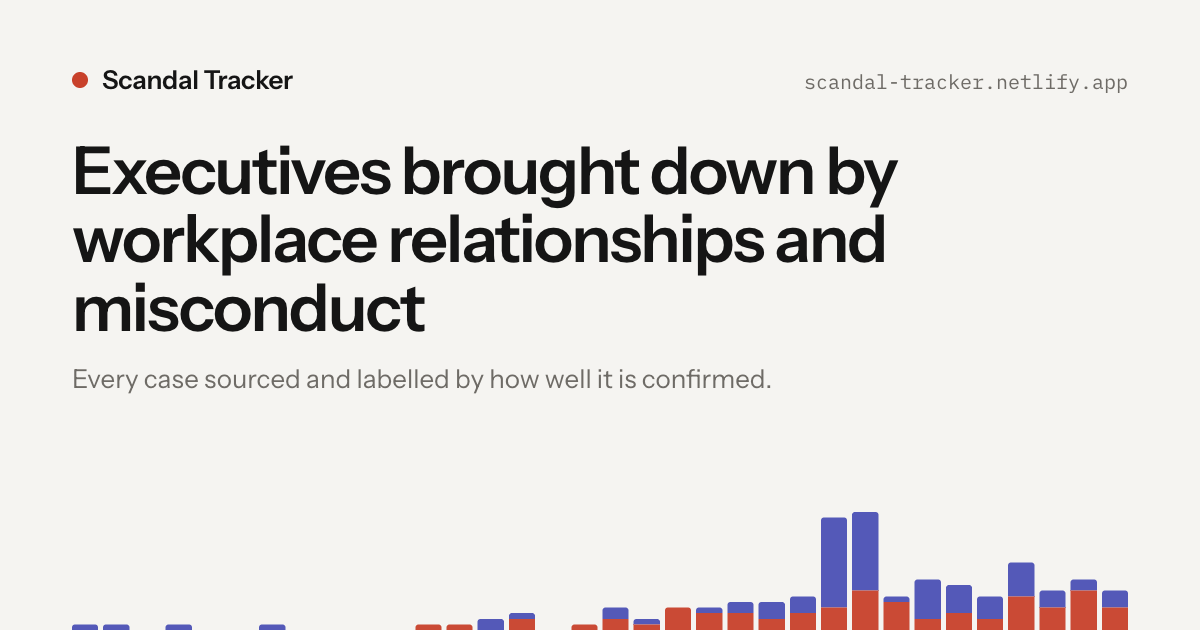
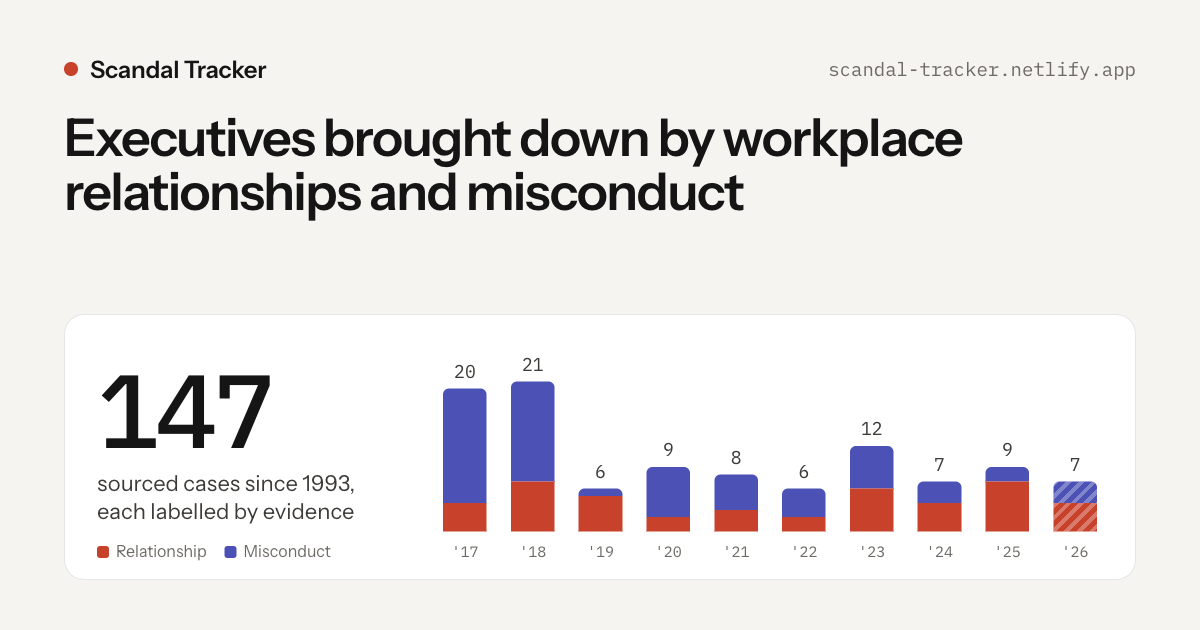
app: year chart defaults to last 10 years; stronger share image
- Home "Cases by year" shows the last 10 years with counts on every
  bar, wider and taller bars, a hatched "so far" current year and a
  "#MeToo, Oct 2017" note; ‹ › step through earlier decades and
  "All years" shows the full range; switching replays the grow-in
- Totals move into a column beside the chart (row on phones)
- Share image redesigned: big total, last-10-years labelled bars

diff --git a/design/share-card.html b/design/share-card.html
@@ -1,51 +1,70 @@
 <!doctype html>
 <!-- Source for app/og.png, the 1200×630 link-preview image.
      To regenerate: serve the repo root (python3 -m http.server 8765), open
-     http://127.0.0.1:8765/design/share-card.html at a 1200×630 viewport, and screenshot it. -->
+     http://127.0.0.1:8765/design/share-card.html at a 1200×630 viewport, and screenshot it.
+     Numbers and bars come from data/records.json, so regenerate after data changes. -->
 <html lang="en">
 <head>
 <meta charset="utf-8">
 <title>Share card</title>
 <link href="https://fonts.googleapis.com/css2?family=Instrument+Sans:wght@400;500;600&family=IBM+Plex+Mono:wght@400;500&display=block" rel="stylesheet">
 <style>
-  :root{--bg:#f5f4f1;--ink:#151515;--muted:#6e6b66;--rule:rgba(21,21,21,.1);--accent:#c8412b;--misc:#4b51b5}
+  :root{--bg:#f5f4f1;--surface:#fff;--ink:#151515;--ink2:#3d3b38;--muted:#6e6b66;--faint:#8a8680;--rule:rgba(21,21,21,.1);--accent:#c8412b;--misc:#4b51b5}
   *{box-sizing:border-box}
   html,body{margin:0;width:1200px;height:630px;overflow:hidden;background:var(--bg);color:var(--ink);font-family:'Instrument Sans',system-ui,sans-serif;-webkit-font-smoothing:antialiased}
-  .card{position:relative;width:1200px;height:630px;padding:64px 72px 0;display:flex;flex-direction:column}
-  .brand{display:flex;align-items:center;gap:14px;font-size:26px;font-weight:600;letter-spacing:-.01em}
-  .dot{width:16px;height:16px;border-radius:50%;background:var(--accent)}
-  h1{margin:40px 0 0;font-size:66px;line-height:1.04;font-weight:600;letter-spacing:-.03em;max-width:1000px}
-  p{margin:20px 0 0;font-size:26px;line-height:1.35;color:var(--muted);max-width:900px}
-  .chart{position:absolute;left:72px;right:72px;bottom:0;height:118px;display:flex;align-items:flex-end;gap:5px}
-  .bar{flex:1;display:flex;flex-direction:column;border-radius:3px 3px 0 0;overflow:hidden;opacity:.95}
+  .card{width:1200px;height:630px;padding:54px 64px 50px;display:flex;flex-direction:column}
+  .top{display:flex;justify-content:space-between;align-items:center}
+  .brand{display:flex;align-items:center;gap:12px;font-size:24px;font-weight:600;letter-spacing:-.01em}
+  .dot{width:14px;height:14px;border-radius:50%;background:var(--accent)}
+  .url{font-family:'IBM Plex Mono',monospace;font-size:19px;color:var(--muted)}
+  h1{margin:26px 0 0;font-size:52px;line-height:1.05;font-weight:600;letter-spacing:-.03em;max-width:1000px}
+  .panel{margin-top:auto;display:grid;grid-template-columns:300px 1fr;gap:40px;align-items:end;background:var(--surface);border:1px solid var(--rule);border-radius:20px;padding:26px 32px 18px}
+  .big{font-family:'IBM Plex Mono',monospace;font-size:104px;font-weight:500;line-height:.9;letter-spacing:-.04em}
+  .big-l{margin-top:12px;font-size:22px;line-height:1.3;color:var(--ink2)}
+  .legend{display:flex;gap:18px;margin-top:16px;font-size:16px;color:var(--muted)}
+  .legend i{display:inline-block;width:12px;height:12px;border-radius:3px;margin-right:7px;vertical-align:-1px}
+  .chart{display:flex;align-items:flex-end;gap:12px;height:220px}
+  .col{flex:1;height:100%;display:flex;flex-direction:column;justify-content:flex-end;align-items:center;gap:6px;position:relative}
+  .n{font-family:'IBM Plex Mono',monospace;font-size:18px;color:var(--ink2)}
+  .bar{width:78%;display:flex;flex-direction:column;border-radius:6px 6px 0 0;overflow:hidden}
   .bar i{display:block;flex-basis:0}
   .m{background:var(--misc)} .r{background:var(--accent)}
-  .url{position:absolute;right:72px;top:68px;font-family:'IBM Plex Mono',monospace;font-size:20px;color:var(--muted)}
+  .y{font-family:'IBM Plex Mono',monospace;font-size:15px;color:var(--muted);margin-top:4px}
+  .partial .bar i{background-image:repeating-linear-gradient(135deg,rgba(255,255,255,.3) 0 4px,transparent 4px 9px)}
 </style>
 </head>
 <body>
 <div class="card">
-  <div class="brand"><span class="dot"></span>Scandal Tracker</div>
-  <div class="url">scandal-tracker.netlify.app</div>
+  <div class="top"><div class="brand"><span class="dot"></span>Scandal Tracker</div><div class="url">scandal-tracker.netlify.app</div></div>
   <h1>Executives brought down by workplace relationships and misconduct</h1>
-  <p>Every case sourced and labelled by how well it is confirmed.</p>
-  <div class="chart" id="chart"></div>
+  <div class="panel">
+    <div>
+      <div class="big" id="big"></div>
+      <div class="big-l" id="bigL"></div>
+      <div class="legend"><span><i class="r"></i>Relationship</span><span><i class="m"></i>Misconduct</span></div>
+    </div>
+    <div class="chart" id="chart"></div>
+  </div>
 </div>
 <script>
-  // Cases per year, relationship vs misconduct, from the published records (decorative; no numbers shown).
+  // Total published cases, and the last 10 years split by type (same window as the home page).
   fetch('../data/records.json').then((r) => r.json()).then((all) => {
     const recs = all.filter((x) => x.status === 'published' && /^\d{4}-\d{2}$/.test(x.disclosed));
     const yr = (r) => +r.disclosed.slice(0, 4);
-    const first = Math.min(...recs.map(yr)), last = Math.max(new Date().getFullYear(), ...recs.map(yr));
+    const first = Math.min(...recs.map(yr));
+    const now = new Date().getFullYear(), last = Math.max(now, ...recs.map(yr));
+    document.getElementById('big').textContent = recs.length;
+    document.getElementById('bigL').textContent = `sourced cases since ${first}, each labelled by evidence`;
     const per = [];
-    for (let y = first; y <= last; y++) {
+    for (let y = last - 9; y <= last; y++) {
       const l = recs.filter((r) => yr(r) === y);
-      per.push({ n: l.length, m: l.filter((r) => r.type === 'misconduct').length });
+      per.push({ y, n: l.length, m: l.filter((r) => r.type === 'misconduct').length });
     }
     const max = Math.max(1, ...per.map((p) => p.n));
-    document.getElementById('chart').innerHTML = per.map(({ n, m }) =>
-      `<div class="bar" style="height:${(n / max) * 100}%"><i class="m" style="flex-grow:${m}"></i><i class="r" style="flex-grow:${n - m}"></i></div>`).join('');
-    document.body.dataset.ready = '1';
+    document.getElementById('chart').innerHTML = per.map(({ y, n, m }) => `<div class="col ${y === now ? 'partial' : ''}">
+      <span class="n">${n}</span>
+      <div class="bar" style="height:${(n / max) * 150}px"><i class="m" style="flex-grow:${m}"></i><i class="r" style="flex-grow:${n - m}"></i></div>
+      <span class="y">'${String(y).slice(2)}</span></div>`).join('');
   });
 </script>
 </body>

diff --git a/app/app.js b/app/app.js
@@ -287,25 +287,64 @@
         <div class="hc-row">${notable.map((x) => caseCard(x, byCo[x.r.company_id].scope)).join('')}</div></div>` : ''}`;
     renderYearChart();
   }
-  function renderYearChart() {
-    if (!records.length) { $('yearChart').innerHTML = ''; return; }
+  // Cases by year: the last YC_W years by default (bars wide enough to label every one),
+  // with ‹ › to step back through earlier years and an "All years" view.
+  const YC_W = 10;
+  // Context notes drawn over the chart when their year is in view.
+  const YC_NOTES = [{ y: 2017, text: '#MeToo, Oct 2017' }];
+  const yc = { all: false, end: null };
+  function renderYearChart(animate = false) {
+    if (!records.length) { $('yearChart').innerHTML = ''; $('ycCtl').innerHTML = ''; return; }
     const first = Math.min(...records.map(yearOf));
-    const years = []; for (let y = first; y <= maxYear; y++) years.push(y);
+    if (yc.end === null) yc.end = maxYear;
+    const start = yc.all ? first : Math.max(first, yc.end - YC_W + 1);
+    const end = yc.all ? maxYear : Math.min(maxYear, Math.max(yc.end, first + YC_W - 1));
+    const years = []; for (let y = start; y <= end; y++) years.push(y);
     const per = years.map((y) => {
       const list = records.filter((r) => yearOf(r) === y);
       return { y, n: list.length, m: list.filter(isM).length };
     });
     const max = Math.max(1, ...per.map((x) => x.n));
     const peak = per.reduce((a, b) => (b.n > a.n ? b : a), per[0]);
-    const label = (y, i) => i === 0 || y === maxYear || y % 5 === 0;
-    $('yearChart').innerHTML = `<div class="yc" role="list">${per.map(({ y, n, m }, i) => {
-      const lbl = `${y}: ${plural(n, 'case')}${n ? ` (${n - m} relationship, ${m} misconduct)` : ''}`;
-      return `<button type="button" class="yc-col ${y === peak.y ? 'peak' : ''}" data-yr="${y}" role="listitem" style="--i:${i}" title="${lbl}" aria-label="${lbl}. Show these cases" ${n ? '' : 'disabled'}>
+    const thisYear = new Date().getFullYear();
+    const wide = !yc.all;
+
+    $('ycCtl').innerHTML = `<div class="seg seg-sm" role="group" aria-label="Years shown">
+        <button type="button" data-yc="recent" class="${wide ? 'on' : ''}" aria-pressed="${wide}">Last ${YC_W} years</button>
+        <button type="button" data-yc="all" class="${wide ? '' : 'on'}" aria-pressed="${!wide}">All years</button></div>
+      ${wide ? `<div class="range"><button type="button" data-ycstep="-1" aria-label="Earlier years" ${start <= first ? 'disabled' : ''}>‹</button>
+        <span class="mono" aria-live="polite">${start}–${end}</span>
+        <button type="button" data-ycstep="1" aria-label="Later years" ${end >= maxYear ? 'disabled' : ''}>›</button></div>` : ''}`;
+
+    $('yearChart').innerHTML = `<div class="yc ${wide ? 'yc-wide' : ''}" role="list">${per.map(({ y, n, m }, i) => {
+      const partial = y === thisYear;
+      const lbl = `${y}${partial ? ' so far' : ''}: ${plural(n, 'case')}${n ? ` (${n - m} relationship, ${m} misconduct)` : ''}`;
+      const note = YC_NOTES.find((x) => x.y === y);
+      return `<button type="button" class="yc-col ${y === peak.y ? 'peak' : ''} ${partial ? 'partial' : ''}" data-yr="${y}" role="listitem" style="--i:${i};--h:${(n / max).toFixed(3)}" title="${lbl}" aria-label="${lbl}. Show these cases" ${n ? '' : 'disabled'}>
+        ${note ? `<span class="yc-note" aria-hidden="true">${esc(note.text)}</span>` : ''}
         <span class="yc-n">${n || ''}</span>
-        <span class="yc-bar" style="--h:${(n / max).toFixed(3)}"><i class="yc-m" style="flex-grow:${m}"></i><i class="yc-r" style="flex-grow:${n - m}"></i></span>
+        <span class="yc-bar"><i class="yc-m" style="flex-grow:${m}"></i><i class="yc-r" style="flex-grow:${n - m}"></i></span>
       </button>`;
     }).join('')}</div>
-      <div class="yc-axis" aria-hidden="true">${per.map(({ y }, i) => `<span>${label(y, i) ? `'${String(y).slice(2)}` : ''}</span>`).join('')}</div>`;
+      <div class="yc-axis ${wide ? 'yc-wide' : ''}" aria-hidden="true">${per.map(({ y }, i) => {
+        const show = wide || i === 0 || y === maxYear || y % 5 === 0;
+        const txt = wide ? y : `'${String(y).slice(2)}`;
+        return `<span>${show ? txt : ''}${wide && y === thisYear ? '<small>so far</small>' : ''}</span>`;
+      }).join('')}</div>`;
+    if (animate && motionOK()) {
+      const el = $('yearChart');
+      el.classList.remove('tl-reveal'); void el.offsetWidth; el.classList.add('tl-reveal');
+      setTimeout(() => el.classList.remove('tl-reveal'), 900);
+    }
+  }
+  function ycControl(e) {
+    const b = e.target.closest('button'); if (!b || b.disabled) return;
+    if (b.dataset.yc) { yc.all = b.dataset.yc === 'all'; if (!yc.all) yc.end = maxYear; }
+    else if (b.dataset.ycstep) yc.end = (yc.end ?? maxYear) + (+b.dataset.ycstep) * YC_W;
+    else return;
+    const first = Math.min(...records.map(yearOf));
+    yc.end = Math.min(maxYear, Math.max(first + YC_W - 1, yc.end ?? maxYear));
+    renderYearChart(true);
   }
 
   // ---------- Timeline ----------
@@ -730,6 +769,7 @@
     $('lost').addEventListener('change', (e) => { st.lost = e.target.value; st.m = ''; commit(); });
     $('showP').addEventListener('change', (e) => { st.p = e.target.checked; st.m = ''; commit(); });
 
+    $('ycCtl').addEventListener('click', ycControl);
     // Home: a year bar opens that year's cases
     $('yearChart').addEventListener('click', (e) => {
       const y = e.target.closest('[data-yr]')?.dataset.yr;

diff --git a/app/styles.css b/app/styles.css
@@ -214,18 +214,31 @@ main:focus{outline:none}
 .lt-kick{font-size:11px;letter-spacing:.04em;text-transform:uppercase;color:var(--muted)}
 .home-years{padding:20px 24px 16px}
 .hy-top{display:flex;justify-content:space-between;align-items:flex-end;flex-wrap:wrap;gap:16px 24px}
-.yc{display:flex;align-items:flex-end;gap:3px;height:160px;margin-top:18px}
+.yc-ctl{display:flex;align-items:center;gap:10px;flex-wrap:wrap}
+.yc-ctl .range{display:flex;align-items:center;gap:6px}
+.yc-ctl .range span{font-size:12px;min-width:84px;text-align:center;color:var(--ink-2)}
+.hy-body{display:grid;grid-template-columns:auto minmax(0,1fr);gap:28px;margin-top:20px}
+.stats-col{flex-direction:column;justify-content:flex-end;gap:18px;padding-right:28px;border-right:1px solid var(--rule)}
+.yc{display:flex;align-items:flex-end;gap:3px;height:220px}
+.yc-col{position:relative}
 .yc-col{flex:1;min-width:0;height:100%;display:flex;flex-direction:column;justify-content:flex-end;align-items:center;gap:3px;border:none;background:none;padding:0;cursor:pointer;color:inherit}
 .yc-col:disabled{cursor:default}
 .yc-n{font-family:var(--mono);font-size:10px;color:var(--muted);height:13px;opacity:0;transition:opacity .12s}
 .yc-col.peak .yc-n,.yc-col:hover .yc-n,.yc-col:focus-visible .yc-n{opacity:1}
-.yc-bar{height:calc(var(--h) * (100% - 16px));width:72%;max-width:22px;display:flex;flex-direction:column;border-radius:2px 2px 0 0;overflow:hidden;transform-origin:bottom}
+.yc-bar{height:calc(var(--h) * (100% - 48px));width:72%;max-width:22px;display:flex;flex-direction:column;border-radius:4px 4px 0 0;overflow:hidden;transform-origin:bottom}
 .yc-bar i{display:block;flex-basis:0;min-height:0}
 .yc-m{background:var(--misc)}
 .yc-r{background:var(--accent)}
 .yc-col:not(:disabled):hover .yc-bar{opacity:.75}
 .yc-axis{display:flex;gap:3px;margin-top:6px;padding-top:6px;border-top:1px solid var(--rule)}
 .yc-axis span{flex:1;min-width:0;text-align:center;font-family:var(--mono);font-size:10px;color:var(--muted);white-space:nowrap;overflow:visible}
+.yc-axis small{display:block;font-family:'Instrument Sans',system-ui,sans-serif;font-size:10px;color:var(--faint);margin-top:1px}
+.yc-wide{gap:10px}
+.yc-wide .yc-bar{width:64%;max-width:48px}
+.yc-wide .yc-n{opacity:1;font-size:12px;color:var(--ink-2);height:15px}
+.yc-axis.yc-wide span{font-size:11px;color:var(--ink-2)}
+.yc-note{position:absolute;left:50%;top:0;bottom:calc(var(--h) * (100% - 48px) + 22px);border-left:1px dashed var(--faint);padding:0 0 0 6px;font-size:11px;line-height:1.2;color:var(--muted);white-space:nowrap;pointer-events:none}
+.partial .yc-bar i{background-image:repeating-linear-gradient(135deg,rgba(255,255,255,.28) 0 3px,transparent 3px 7px)}
 .hy-foot{display:flex;justify-content:space-between;align-items:center;flex-wrap:wrap;gap:8px 16px;margin-top:14px;font-size:12px}
 .hy-foot .legend{margin:0}
 .sw{display:inline-block;width:10px;height:10px;border-radius:2px;background:var(--accent)}
@@ -425,8 +438,14 @@ button.dot:hover{transform:scale(1.4)}
   .home-search .search input{height:50px;font-size:16px}
   .hc-row{grid-template-columns:1fr}
   .home-years{padding:16px}
-  .yc{height:130px;gap:2px}
-  .yc-axis{gap:2px}
+  .yc{height:180px;gap:2px}
+  .yc-wide{gap:5px}
+  .yc-wide .yc-n{font-size:10px}
+  .yc-axis.yc-wide span{font-size:9px}
+  .yc-axis small{font-size:8px}
+  .hy-body{grid-template-columns:1fr;gap:18px}
+  .stats-col{flex-direction:row;justify-content:flex-start;padding:0;border:none;gap:24px}
+  .yc-axis:not(.yc-wide){gap:2px}
   .yc-axis span{font-size:9px}
   .home-browse{grid-template-columns:1fr}
   .fbar .range{order:2}

diff --git a/app/index.html b/app/index.html
@@ -26,7 +26,7 @@
 <title>Scandal Tracker</title>
 <link rel="preconnect" href="https://fonts.googleapis.com">
 <link href="https://fonts.googleapis.com/css2?family=Instrument+Sans:wght@400;500;600&family=IBM+Plex+Mono:wght@400;500&display=swap" rel="stylesheet">
-<link rel="stylesheet" href="styles.css?v=19">
+<link rel="stylesheet" href="styles.css?v=20">
 </head>
 <body>
 <a class="skip" href="#main">Skip to content</a>
@@ -104,9 +104,12 @@
             <h2 class="tl-title">Cases by year</h2>
             <p class="tl-hint">By the year each case became public. Select a year to see its cases.</p>
           </div>
-          <div class="stats" id="stats"></div>
+          <div class="yc-ctl" id="ycCtl"></div>
         </div>
-        <div class="hy-chart" id="yearChart"></div>
+        <div class="hy-body">
+          <div class="stats stats-col" id="stats"></div>
+          <div class="hy-chart" id="yearChart"></div>
+        </div>
         <div class="hy-foot">
           <div class="legend legend-inline"><span><i class="sw"></i>Relationship</span><span><i class="sw sw-m"></i>Misconduct</span></div>
           <a href="#about/evidence" data-nav="about" data-sec="evidence">How cases are chosen</a>
@@ -198,6 +201,6 @@
   <div id="toast" class="toast" role="status" hidden></div>
   <div id="hovercard" class="hovercard" aria-hidden="true" hidden></div>
 </div>
-<script src="app.js?v=18"></script>
+<script src="app.js?v=19"></script>
 </body>
 </html>

diff --git a/docs/DESIGN.md b/docs/DESIGN.md
@@ -89,5 +89,6 @@ These additions came from the design audit in `.ui-design/reviews/app_20261115.m
 The default route (`#home`, or no hash) is a home page; the company-by-year grid lives under **Timeline**. Navigation: Home · All cases (the Records table) · Timeline · Calendar · About.
 - **Search first:** a centred H1, a one-line sub ("Search 147 sourced cases since 1993, each labelled by how well it is confirmed") and a large search box. The header's search element is moved into the hero on Home and back into the header on every other view, so there is only ever one. Under it, "Try" chips list the five companies with the most cases.
 - **Cards:** two **Latest** (one per person, newest first; within a month the strongest evidence wins) and two **Notable**: the newest cases where the role is CEO, chief executive, chair, president, founder or managing director, the company is Fortune 500 or Global 500, and the evidence is confirmed, adjudicated, admitted or settled. Each card shows the company list as a kicker.
-- **Cases by year:** a stacked bar per year (relationship in accent, misconduct in `--misc`) from the first case to the current year, with the peak labelled, the Cases / Companies / Lost their role stats (they count up on first load), and a legend. Selecting a bar opens All cases filtered to that year (`yr` URL parameter, shown as a "Year: 2018 ×" chip).
+- **Cases by year:** stacked bars per year (relationship in accent, misconduct in `--misc`). By default it shows the **last 10 years** (`YC_W`), with a count on every bar; ‹ › step back and forward 10 years at a time, and **All years** shows every year from the first case, labelling only the peak. The current year is hatched and marked "so far". Notes in `YC_NOTES` (currently "#MeToo, Oct 2017") are drawn over their year when it is in view. The Cases / Companies / Lost their role totals sit in a column to the left of the chart (in a row on phones) and count up on first load. Switching windows replays the grow-in animation. Selecting a bar opens All cases filtered to that year (`yr` URL parameter, shown as a "Year: 2018 ×" chip).
+- **Share image** (`app/og.png`, 1200×630, source `design/share-card.html`): brand and URL, the headline, then a white panel with the total case count large on the left and the last 10 years as labelled bars on the right. Regenerate it after data changes.
 - **Browse** tiles link to All cases, Timeline and Calendar.
